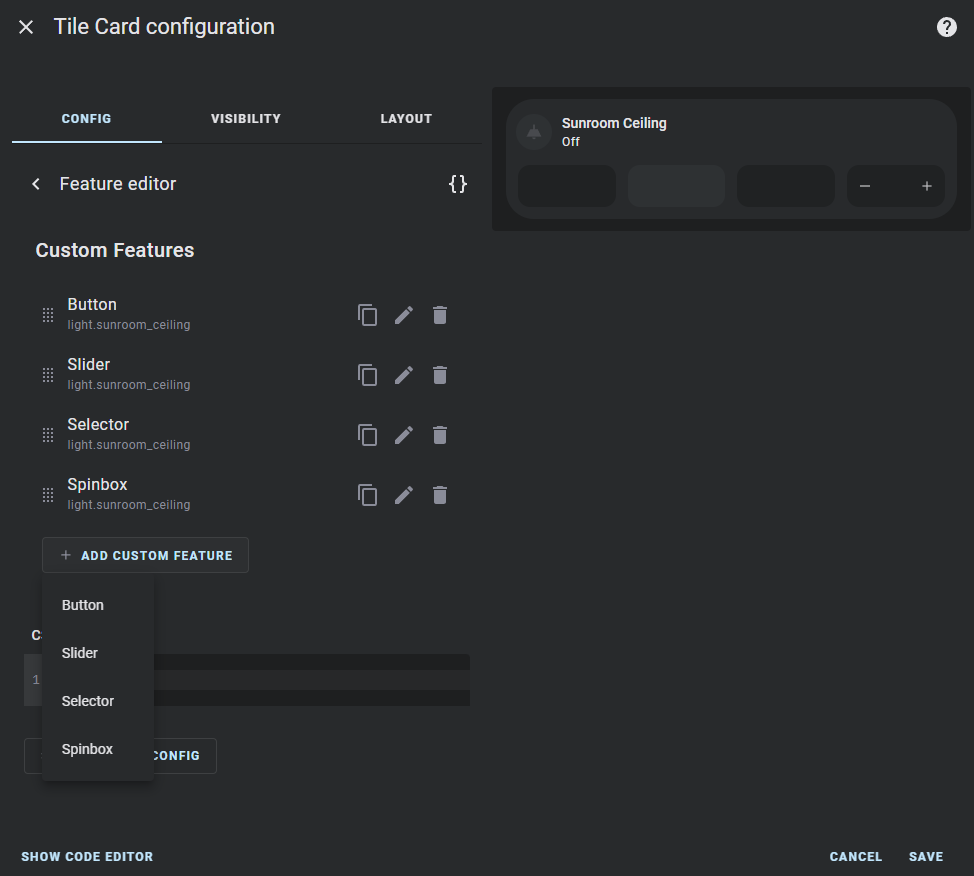
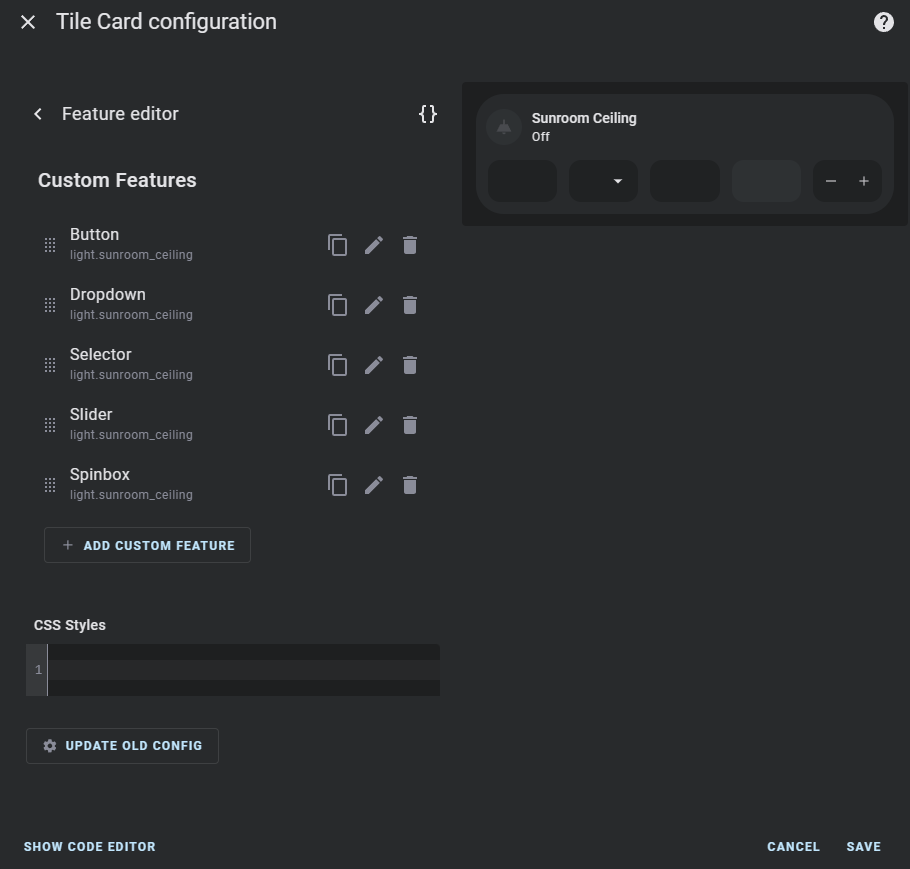
dropdown README updates

diff --git a/README.md b/README.md
@@ -75,7 +75,7 @@ You can also override the default behavior of the increment and decrement button
 
 This project now has a fully featured configuration user interface! To get started, install this project using HACS by adding it as a custom frontend repository. Then go to a dashboard.
 
-Create a tile card, or any other card that supports card features. The entity ID can be anything you like. Click `ADD FEATURE` and then `Custom Features Row`
+Create a tile card, or any other card that supports card features. The entity ID can be anything you like. Click `ADD FEATURE` and then `Custom features row`
 
 All custom features are encapsulated in a custom features row. This allows you to add multiple custom features to a row, apply overall CSS styles, and change the widths of features in the row relative to each other using the `flex-basis` CSS property. You can add a custom features row just like any default feature, except that this feature is available for all entities.
 
@@ -132,7 +132,7 @@ Like sliders and spinboxes, selectors have a one second delay before updating th
 
 <img src="https://raw.githubusercontent.com/Nerwyn/service-call-tile-feature/main/assets/appearance_options.png" alt="appearance_options" width="600"/>
 
-All features (except for selectors, which support these options at the option level) can have a `Label`, `Icon`, and `Units`. These fields can also be set using templates. Like the overall custom features row, each custom feature can have it's CSS styles set (including using templates).
+All features can have a `Label`, `Icon`, and `Units` (dropdowns and selectors support these fields at the option level). These fields can also be set using templates. Like the overall custom features row, each custom feature can have it's CSS styles set (including using templates).
 
 ### A Note on Templating
 
@@ -249,12 +249,23 @@ While any CSS property can be used, these values are internal CSS attributes use
 
 | Name            | Description                                  |
 | --------------- | -------------------------------------------- |
-| --color         | The hover and selected color of an option.   |
+| --color         | Hover and selected color of an option.       |
 | --hover-opacity | Opacity to use when hovering over an option. |
+
+## Dropdown CSS Attributes
+
+| Name                                | Description                                            |
+| ----------------------------------- | ------------------------------------------------------ |
+| --mdc-menu-item-height              | Height of each dropdown option.                        |
+| --mdc-theme-text-icon-on-background | Color of dropdown option icon in list.                 |
+| --mdc-list-side-padding-left        | Left padding of option.                                |
+| --mdc-list-side-padding-right       | Right padding of option.                               |
+| --mdc-list-side-padding             | Side padding of option, lower priority than above two. |
+| --mdc-list-item-graphic-margin      | Gap between option icon and label.                     |
 
 ## Actions
 
-There are three traditional ways to trigger an action - tap, double tap, and hold. Buttons, selector options, and spinbox buttons support all three, and sliders only support tap actions. Defining a double tap action that is not `none` introduces a 200ms delay to single tap actions.
+There are three traditional ways to trigger an action - tap, double tap, and hold. Buttons, selector options, and spinbox buttons support all three. Dropdown options and sliders only support tap actions. Defining a double tap action that is not `none` introduces a 200ms delay to single tap actions.
 
 <img src="https://raw.githubusercontent.com/Nerwyn/service-call-tile-feature/main/assets/button_actions_options.png" alt="button_actions_options" width="600"/>
 
